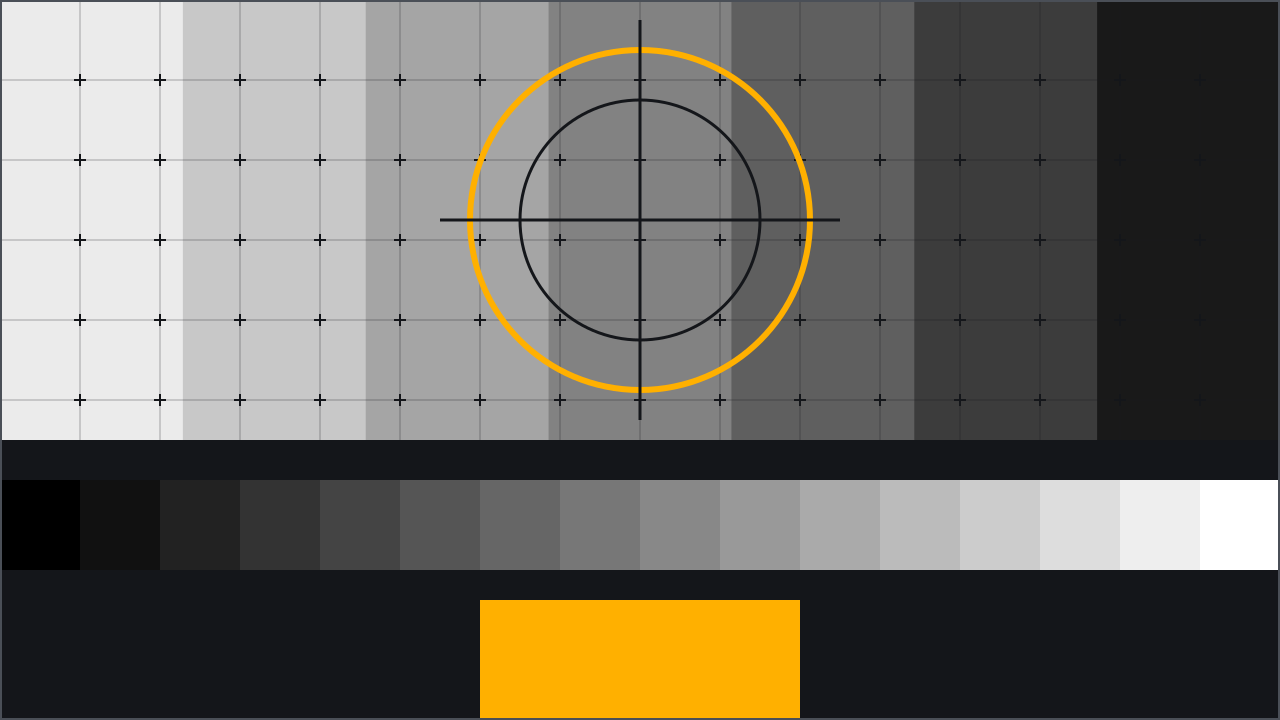
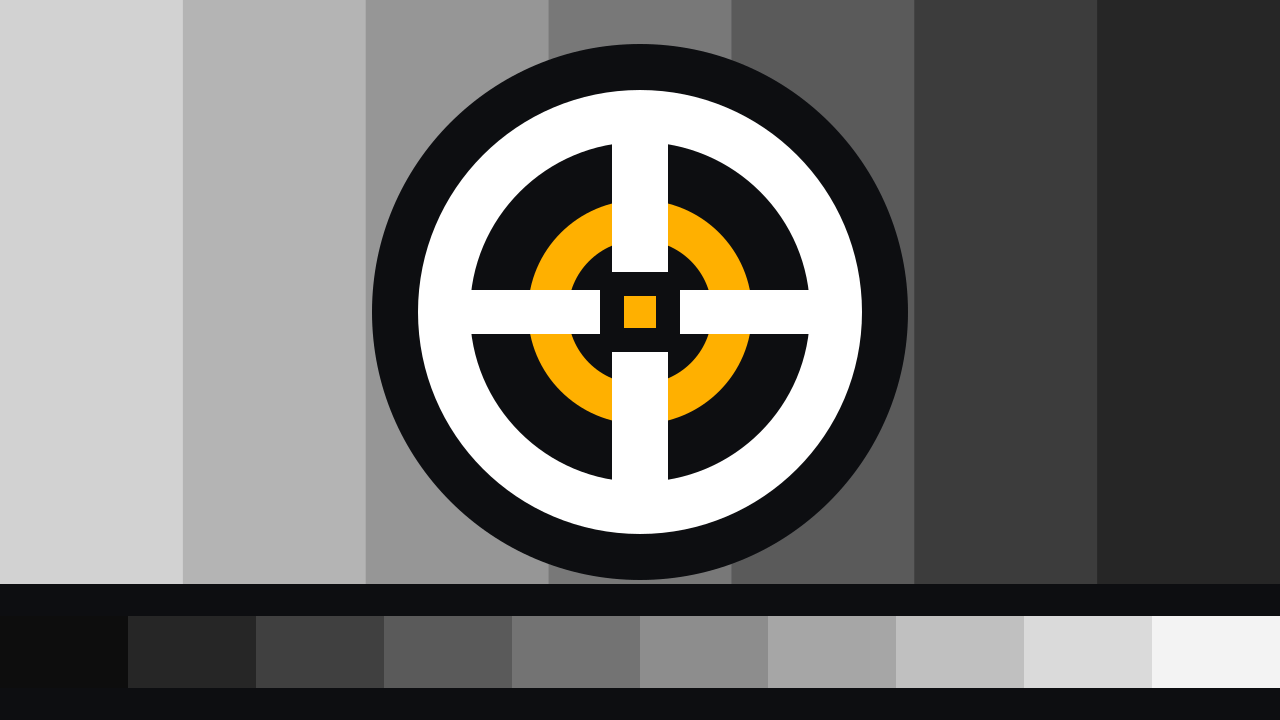
fix(ascii): compact grid, contrast stretch, html budget and no leaked originals
- render a 48-column grid next to the wide one, swapped by a container query
- normalise luminance before the b-w step
- fail the build when a figure's ascii markup exceeds 30 KB
- resolve uploads from disk instead of an eager glob, so unused originals stay out of dist
- name the shimmer mask values; bolder seed test card

diff --git a/src/lib/ascii.test.ts b/src/lib/ascii.test.ts
@@ -6,31 +6,36 @@ import { after, before, test } from 'node:test';
 import sharp from 'sharp';
 import { ASCII_RAMP, gridRows, renderAscii, toAsciiGrid } from './ascii.ts';
 
-const WIDTH = 4;
 const HEIGHT = 2;
 const WHITE = 255;
 const BLACK = 0;
 const OPAQUE = 255;
 const HALF_ALPHA = 128;
 
+/** A grey pixel; with `alpha` the whole image becomes RGBA (missing alphas are opaque). */
+type Pixel = { grey: number; alpha?: number };
+
+const HALF_WHITE: Pixel[] = [{ grey: WHITE }, { grey: WHITE }, { grey: BLACK }, { grey: BLACK }];
+const HALF_WHITE_LINE = [
+  { tone: 5, text: '@@' },
+  { tone: 0, text: '  ' },
+];
+
 let dir = '';
 
-/**
- * A WIDTH×HEIGHT PNG whose left half is white and right half black.
- * With `alpha`, it is RGBA and every pixel carries that alpha.
- */
-async function halfWhitePng(name: string, alpha?: number): Promise<string> {
-  const channels = alpha === undefined ? 3 : 4;
+/** A PNG with one column per pixel, each column HEIGHT pixels tall. */
+async function columnsPng(name: string, columns: Pixel[]): Promise<string> {
+  const withAlpha = columns.some((pixel) => pixel.alpha !== undefined);
+  const channels = withAlpha ? 4 : 3;
   const pixels: number[] = [];
   for (let y = 0; y < HEIGHT; y++) {
-    for (let x = 0; x < WIDTH; x++) {
-      const value = x < WIDTH / 2 ? WHITE : BLACK;
-      pixels.push(value, value, value);
-      if (alpha !== undefined) pixels.push(alpha);
+    for (const { grey, alpha = OPAQUE } of columns) {
+      pixels.push(grey, grey, grey);
+      if (withAlpha) pixels.push(alpha);
     }
   }
   const file = join(dir, name);
-  await sharp(Buffer.from(pixels), { raw: { width: WIDTH, height: HEIGHT, channels } })
+  await sharp(Buffer.from(pixels), { raw: { width: columns.length, height: HEIGHT, channels } })
     .png()
     .toFile(file);
   return file;
@@ -81,43 +86,65 @@ test('ASCII_RAMP holds no HTML-special characters', () => {
   assert.ok(!/[<>&"']/.test(ASCII_RAMP));
 });
 
-const HALF_WHITE_LINE = [
-  { tone: 5, text: '@@' },
-  { tone: 0, text: '  ' },
-];
-
 test('renderAscii renders a white half as @ and a black half as space', async () => {
-  const grid = await renderAscii(await halfWhitePng('rgb.png'), WIDTH);
-  assert.equal(grid.cols, WIDTH);
-  assert.equal(grid.rows, gridRows(WIDTH, WIDTH, HEIGHT));
+  const grid = await renderAscii(await columnsPng('rgb.png', HALF_WHITE), HALF_WHITE.length);
+  assert.equal(grid.cols, HALF_WHITE.length);
+  assert.equal(grid.rows, gridRows(HALF_WHITE.length, HALF_WHITE.length, HEIGHT));
   assert.deepEqual(grid.lines[0], HALF_WHITE_LINE);
 });
 
 test('renderAscii reads an opaque RGBA image the same way', async () => {
-  const grid = await renderAscii(await halfWhitePng('rgba.png', OPAQUE), WIDTH);
+  const opaque = HALF_WHITE.map(({ grey }) => ({ grey, alpha: OPAQUE }));
+  const grid = await renderAscii(await columnsPng('rgba.png', opaque), opaque.length);
   assert.deepEqual(grid.lines[0], HALF_WHITE_LINE);
 });
 
 test('renderAscii blends translucent pixels onto black', async () => {
-  const grid = await renderAscii(await halfWhitePng('half-alpha.png', HALF_ALPHA), WIDTH);
+  const columns = [{ grey: WHITE }, { grey: WHITE, alpha: HALF_ALPHA }, ...HALF_WHITE.slice(2)];
+  const grid = await renderAscii(await columnsPng('half-alpha.png', columns), columns.length);
   assert.deepEqual(grid.lines[0], [
-    { tone: 3, text: '++' },
+    { tone: 5, text: '@' },
+    { tone: 3, text: '+' },
     { tone: 0, text: '  ' },
   ]);
+});
+
+test('renderAscii stretches a low-contrast image across the tone range', async () => {
+  const LOW = 100;
+  const STEP = 8;
+  const COUNT = 8;
+  const columns = Array.from({ length: COUNT }, (_, i) => ({ grey: LOW + i * STEP }));
+  const flatTones = new Set(
+    toAsciiGrid(
+      Uint8Array.from(columns, ({ grey }) => grey),
+      COUNT,
+      1,
+    ).lines[0]?.map((r) => r.tone),
+  );
+  const grid = await renderAscii(await columnsPng('low-contrast.png', columns), COUNT);
+  const tones = new Set(grid.lines[0]?.map((r) => r.tone));
+  assert.ok(
+    tones.size > flatTones.size,
+    `${tones.size} tones after stretch, ${flatTones.size} before`,
+  );
+  assert.ok(tones.has(0) && tones.has(5));
 });
 
 test('renderAscii sizes rows from the EXIF-upright image', async () => {
   const QUARTER_TURN = 6;
   const file = join(dir, 'rotated.jpg');
-  await sharp(await halfWhitePng('to-rotate.png'))
+  await sharp(await columnsPng('to-rotate.png', HALF_WHITE))
     .withMetadata({ orientation: QUARTER_TURN })
     .jpeg()
     .toFile(file);
-  const grid = await renderAscii(file, WIDTH);
-  assert.equal(grid.rows, gridRows(WIDTH, HEIGHT, WIDTH));
+  const grid = await renderAscii(file, HALF_WHITE.length);
+  assert.equal(grid.rows, gridRows(HALF_WHITE.length, HEIGHT, HALF_WHITE.length));
 });
 
 test('renderAscii memoizes per file and column count', async () => {
-  const file = await halfWhitePng('memo.png');
-  assert.equal(await renderAscii(file, WIDTH), await renderAscii(file, WIDTH));
+  const file = await columnsPng('memo.png', HALF_WHITE);
+  assert.equal(
+    await renderAscii(file, HALF_WHITE.length),
+    await renderAscii(file, HALF_WHITE.length),
+  );
 });

diff --git a/src/lib/ascii-source.ts b/src/lib/ascii-source.ts
@@ -1,19 +1,49 @@
 /**
  * Maps an imported upload back to its file on disk, so `renderAscii` can read the original.
- * Matches on `image.src` against the uploads glob; never relies on Astro's internal `fsPath`.
+ * Never relies on Astro's internal `fsPath`.
+ *
+ * It lists `src/assets/uploads` on disk instead of using `import.meta.glob`. Importing an image
+ * module makes Astro emit its original (EXIF included) into `dist/_astro`, and an original is
+ * only removed when the image is optimized, so a glob over the uploads would ship every one.
+ * The match is the file name Astro gives `image.src`: `<stem>.<hash>.<ext>` in builds,
+ * `<stem>.<ext>` in dev.
  */
-import { join } from 'node:path';
+import { readdirSync } from 'node:fs';
+import { extname, join, parse } from 'node:path';
 import type { ImageMetadata } from 'astro';
 
-const UPLOADS = import.meta.glob<ImageMetadata>('/src/assets/uploads/**/*.{png,jpg,jpeg,webp}', {
-  eager: true,
-  import: 'default',
-});
+const UPLOADS_DIR = join(process.cwd(), 'src', 'assets', 'uploads');
+const IMAGE_EXTENSIONS = new Set(['.png', '.jpg', '.jpeg', '.webp']);
+/** What may sit between stem and extension: nothing (dev) or one `.<hash>` (build). */
+const HASH_SUFFIX = /^(\.[\w-]+)?$/;
+
+/** Last path segment of a URL without its query string. */
+function urlFileName(src: string): string {
+  return src.split('?')[0]?.split('/').at(-1) ?? '';
+}
+
+function isEmittedFrom(target: string, file: string): boolean {
+  const extension = extname(file);
+  const stem = parse(file).name;
+  return (
+    IMAGE_EXTENSIONS.has(extension.toLowerCase()) &&
+    target.startsWith(stem) &&
+    target.endsWith(extension) &&
+    HASH_SUFFIX.test(target.slice(stem.length, target.length - extension.length))
+  );
+}
 
 export function resolveUploadPath(image: ImageMetadata): string {
-  const key = Object.keys(UPLOADS).find((path) => UPLOADS[path]?.src === image.src);
-  if (key === undefined) {
+  const target = urlFileName(image.src);
+  const matches = readdirSync(UPLOADS_DIR, { recursive: true, encoding: 'utf8' }).filter((file) =>
+    isEmittedFrom(target, file),
+  );
+  const [match, ...others] = matches;
+  if (match === undefined) {
     throw new Error(`ASCII source ${image.src} is not an image under src/assets/uploads`);
   }
-  return join(process.cwd(), key);
+  if (others.length > 0) {
+    throw new Error(`ASCII source ${image.src} is ambiguous: ${matches.join(', ')}; rename one`);
+  }
+  return join(UPLOADS_DIR, match);
 }

diff --git a/src/lib/ascii-markup.test.ts b/src/lib/ascii-markup.test.ts
@@ -1,0 +1,42 @@
+import assert from 'node:assert/strict';
+import { test } from 'node:test';
+import { fileURLToPath } from 'node:url';
+import { ASCII_COLUMNS, ASCII_COLUMNS_COMPACT, renderAscii, toAsciiGrid } from './ascii.ts';
+import { ASCII_HTML_BUDGET, asciiMarkup, assertAsciiBudget } from './ascii-markup.ts';
+
+const SEED = fileURLToPath(new URL('../assets/uploads/test-card.png', import.meta.url));
+
+test('asciiMarkup wraps toned runs in spans and leaves blank runs bare', () => {
+  const grid = toAsciiGrid(Uint8Array.from([0, 255, 0, 0]), 4, 1);
+  assert.equal(asciiMarkup(grid), '\n <span class="t5">@</span>');
+});
+
+test('asciiMarkup starts with a newline so a blank first row survives the HTML parser', () => {
+  const grid = toAsciiGrid(Uint8Array.from([0, 0, 255, 255]), 2, 2);
+  assert.equal(asciiMarkup(grid), '\n\n<span class="t5">@@</span>');
+});
+
+test('assertAsciiBudget fails a noisy render, naming the source and its size', () => {
+  const COLS = ASCII_COLUMNS;
+  const ROWS = 27;
+  const NOISE_LOW = 128;
+  const NOISE_HIGH = 255;
+  const noise = new Uint8Array(COLS * ROWS).map((_, i) => (i % 2 === 0 ? NOISE_LOW : NOISE_HIGH));
+  const markup = asciiMarkup(toAsciiGrid(noise, COLS, ROWS));
+  assert.ok(new TextEncoder().encode(markup).length > ASCII_HTML_BUDGET);
+  assert.throws(
+    () => assertAsciiBudget([markup], 'noise.png'),
+    (error: Error) =>
+      error.message.includes('noise.png') &&
+      error.message.includes(String(new TextEncoder().encode(markup).length)),
+  );
+});
+
+test('the seed test card fits the budget at both column counts', async () => {
+  const markups = await Promise.all(
+    [ASCII_COLUMNS, ASCII_COLUMNS_COMPACT].map(async (cols) =>
+      asciiMarkup(await renderAscii(SEED, cols)),
+    ),
+  );
+  assert.doesNotThrow(() => assertAsciiBudget(markups, SEED));
+});

diff --git a/src/lib/ascii-markup.ts b/src/lib/ascii-markup.ts
@@ -1,0 +1,35 @@
+/**
+ * Turns an ASCII grid into the inner markup of a `<pre>` and guards its size.
+ * Safe as raw HTML: the ramp holds no HTML-special characters and classes are fixed.
+ */
+import type { AsciiGrid, AsciiRun } from './ascii.ts';
+
+/** Max bytes of ASCII markup per figure (all its grids together). */
+export const ASCII_HTML_BUDGET = 30 * 1024;
+
+/** A run of spaces needs no colour, so it stays bare text. */
+const BLANK_RUN = /^ +$/;
+
+function runHtml({ tone, text }: AsciiRun): string {
+  return BLANK_RUN.test(text) ? text : `<span class="t${tone}">${text}</span>`;
+}
+
+/**
+ * Trailing blanks are dropped: the font size follows the column count, not the line length.
+ * The leading newline is eaten by the HTML parser, so a blank first row survives.
+ */
+export function asciiMarkup(grid: AsciiGrid): string {
+  return `\n${grid.lines.map((line) => line.map(runHtml).join('').trimEnd()).join('\n')}`;
+}
+
+/** Fails the build when one figure's markup outgrows the budget. */
+export function assertAsciiBudget(markups: readonly string[], source: string): void {
+  const encoder = new TextEncoder();
+  const bytes = markups.reduce((sum, markup) => sum + encoder.encode(markup).length, 0);
+  if (bytes > ASCII_HTML_BUDGET) {
+    throw new Error(
+      `ASCII render of ${source} is ${bytes} bytes, over the ${ASCII_HTML_BUDGET}-byte budget: ` +
+        'use a simpler image (fewer tone changes) or fewer columns',
+    );
+  }
+}

diff --git a/src/lib/ascii.ts b/src/lib/ascii.ts
@@ -12,12 +12,17 @@ export const TONE_COUNT = 6;
 /** Glyph cell width ÷ height. Rows are scaled by it so the image keeps its aspect. */
 export const CHAR_ASPECT = 0.5;
 export const ASCII_COLUMNS = 96;
+/** The second, coarser grid AsciiImage swaps in on narrow containers. */
+export const ASCII_COLUMNS_COMPACT = 48;
 
 /** Byte range of one luma sample. */
 const LUMA_LEVELS = 256;
 const MAX_GLYPH = ASCII_RAMP.length - 1;
 const MAX_TONE = TONE_COUNT - 1;
-/** Transparent pixels turn black (dark canvas); flattening also drops the alpha channel. */
+/**
+ * Translucent pixels are composited onto black (dark canvas). sharp 0.35's `b-w` already drops
+ * alpha, so this is about correct blending, not the channel count.
+ */
 const FLATTEN_BACKGROUND = { r: 0, g: 0, b: 0 } as const;
 const LUMA_CHANNELS = 1;
 
@@ -67,6 +72,8 @@ async function readAscii(filePath: string, cols: number): Promise<AsciiGrid> {
     .autoOrient()
     .resize(cols, rows, { fit: 'fill' })
     .flatten({ background: FLATTEN_BACKGROUND })
+    // Stretch luminance so low-contrast photos still use the whole ramp.
+    .normalise()
     .toColourspace('b-w')
     .raw()
     .toBuffer({ resolveWithObject: true });

diff --git a/src/lib/ascii-source.test.ts b/src/lib/ascii-source.test.ts
@@ -1,0 +1,32 @@
+import assert from 'node:assert/strict';
+import { join } from 'node:path';
+import { test } from 'node:test';
+import type { ImageMetadata } from 'astro';
+import { resolveUploadPath } from './ascii-source.ts';
+
+const SEED = join(process.cwd(), 'src', 'assets', 'uploads', 'test-card.png');
+const SEED_WIDTH = 1280;
+const SEED_HEIGHT = 720;
+
+function image(src: string): ImageMetadata {
+  return { src, width: SEED_WIDTH, height: SEED_HEIGHT, format: 'png' };
+}
+
+test('resolveUploadPath maps a built asset name back to the upload', () => {
+  assert.equal(resolveUploadPath(image('/_astro/test-card.D30-05J7.png')), SEED);
+});
+
+test('resolveUploadPath maps a dev URL back to the upload', () => {
+  assert.equal(
+    resolveUploadPath(image(`/@fs${SEED}?origWidth=1280&origHeight=720&origFormat=png`)),
+    SEED,
+  );
+});
+
+test('resolveUploadPath rejects names that only share a prefix', () => {
+  assert.throws(
+    () => resolveUploadPath(image('/_astro/test-card.extra.D30-05J7.png')),
+    /test-card\.extra/,
+  );
+  assert.throws(() => resolveUploadPath(image('/_astro/test.D30-05J7.png')), /not an image under/);
+});
